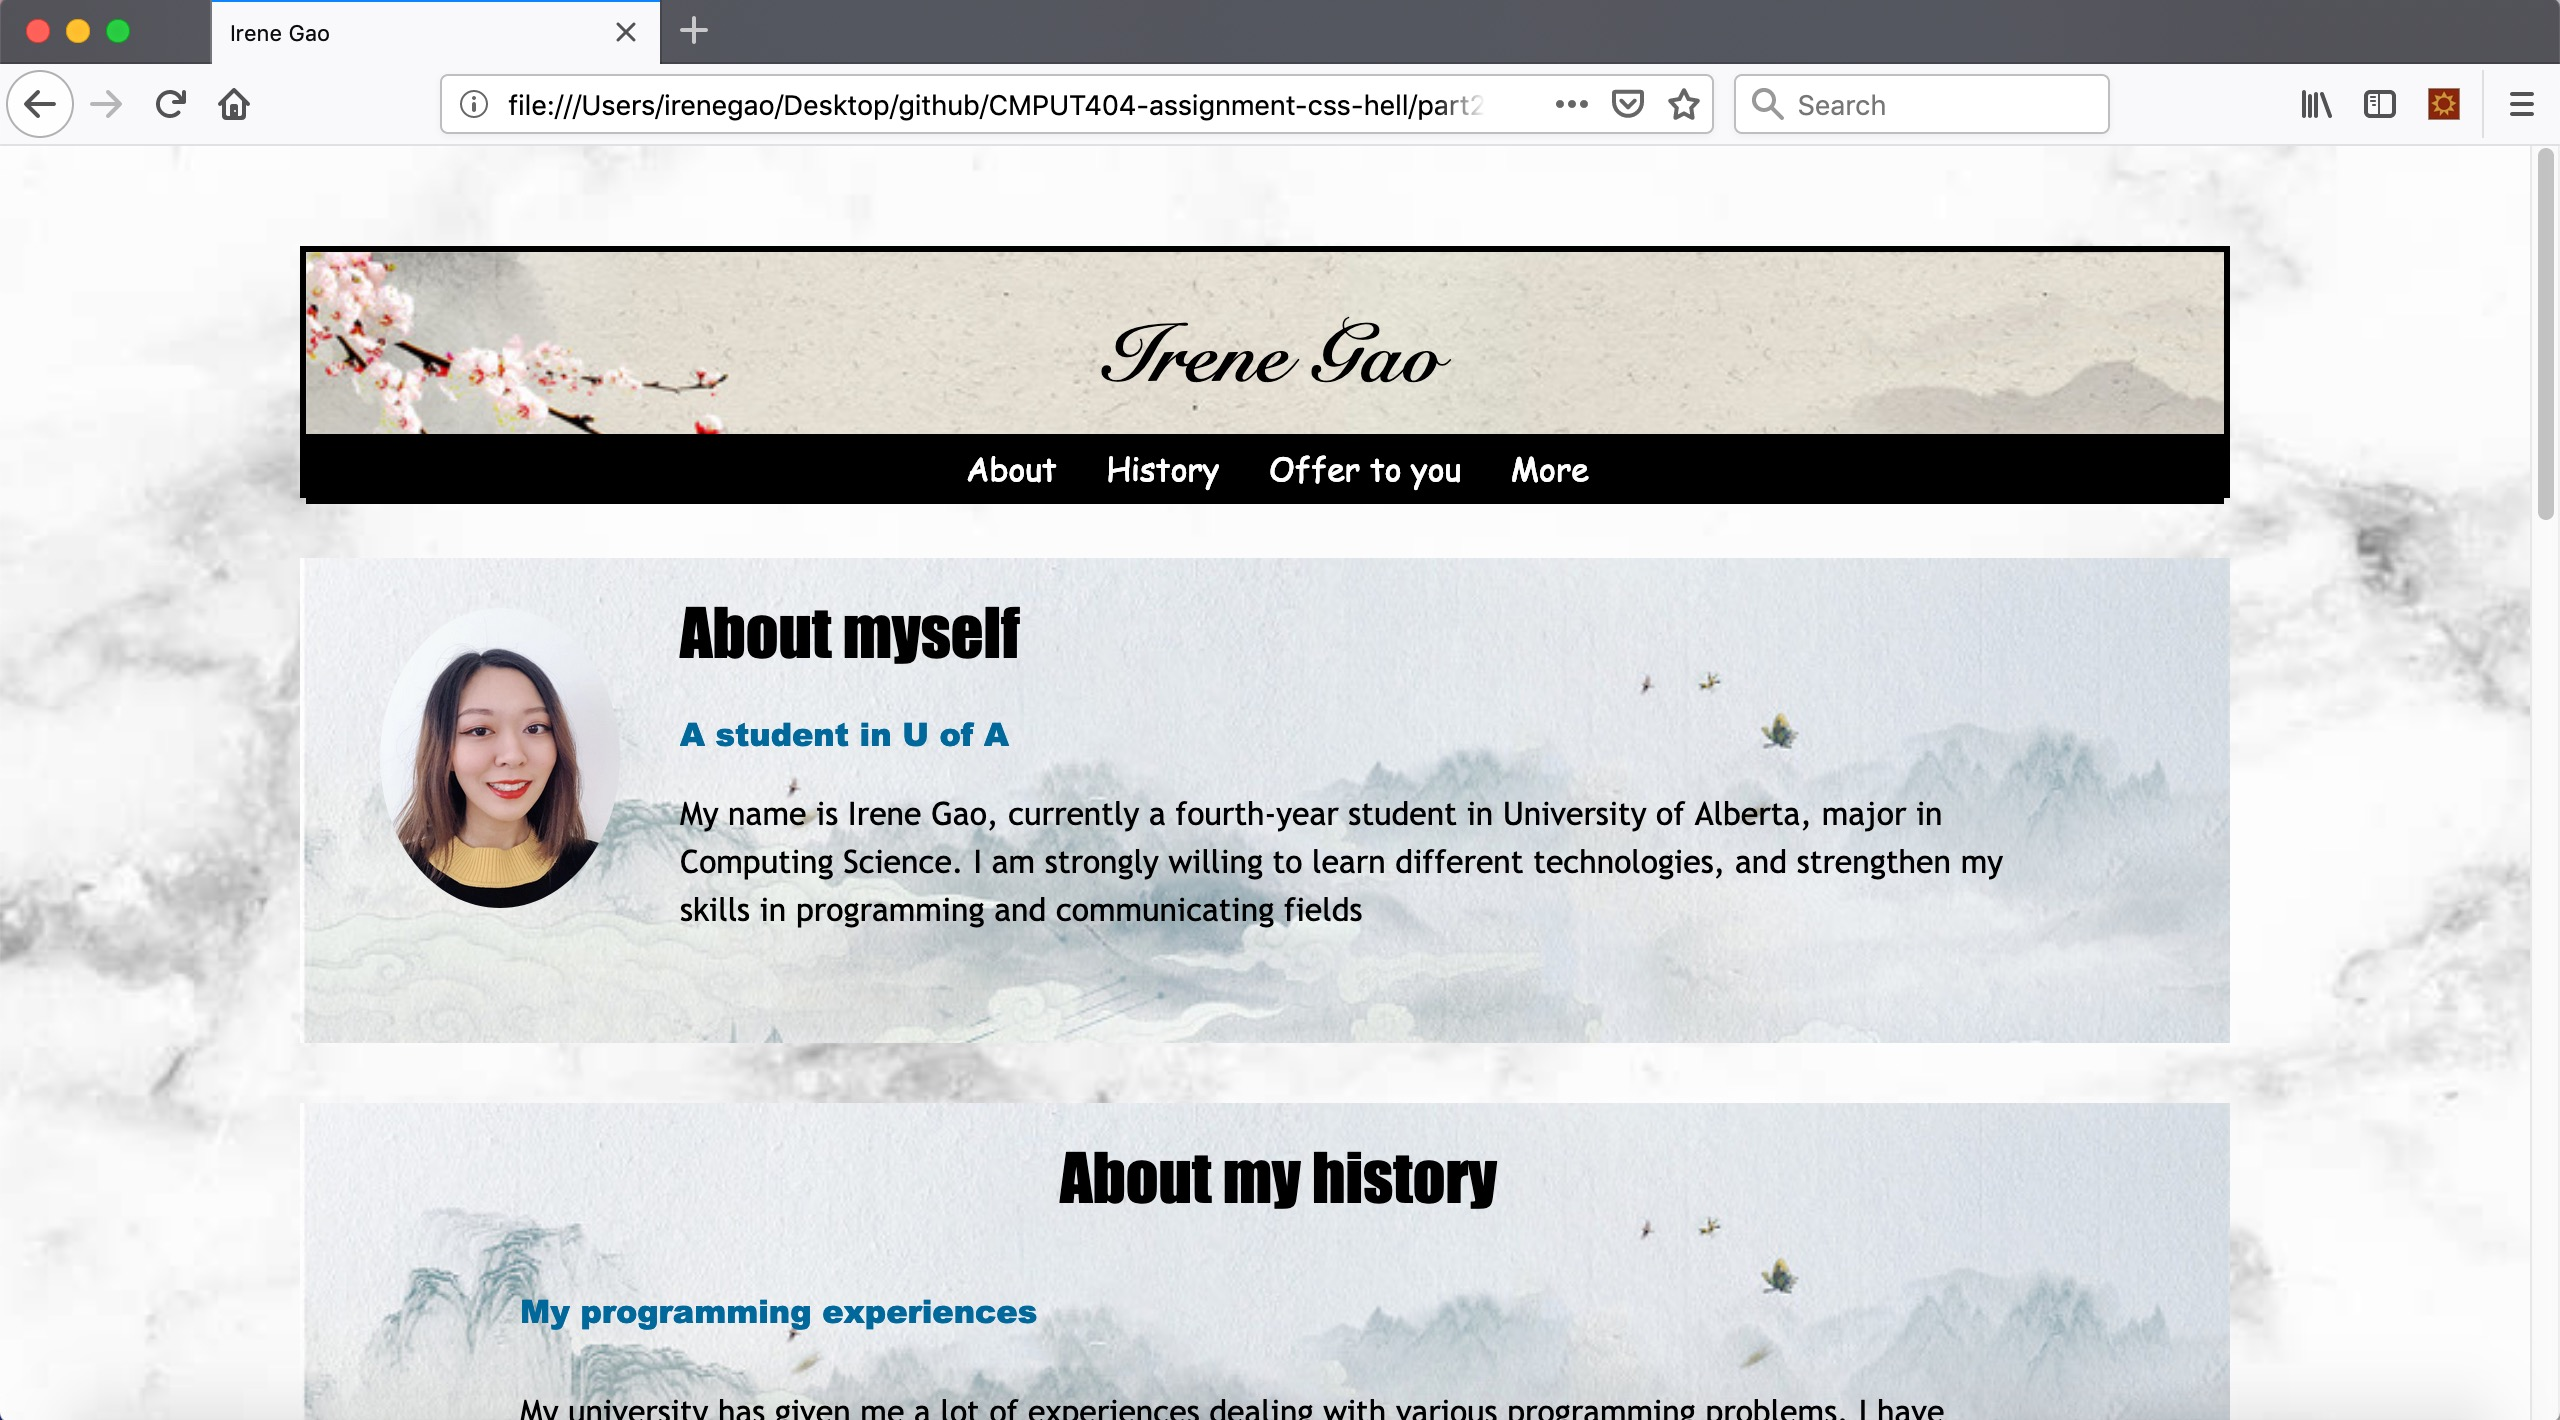
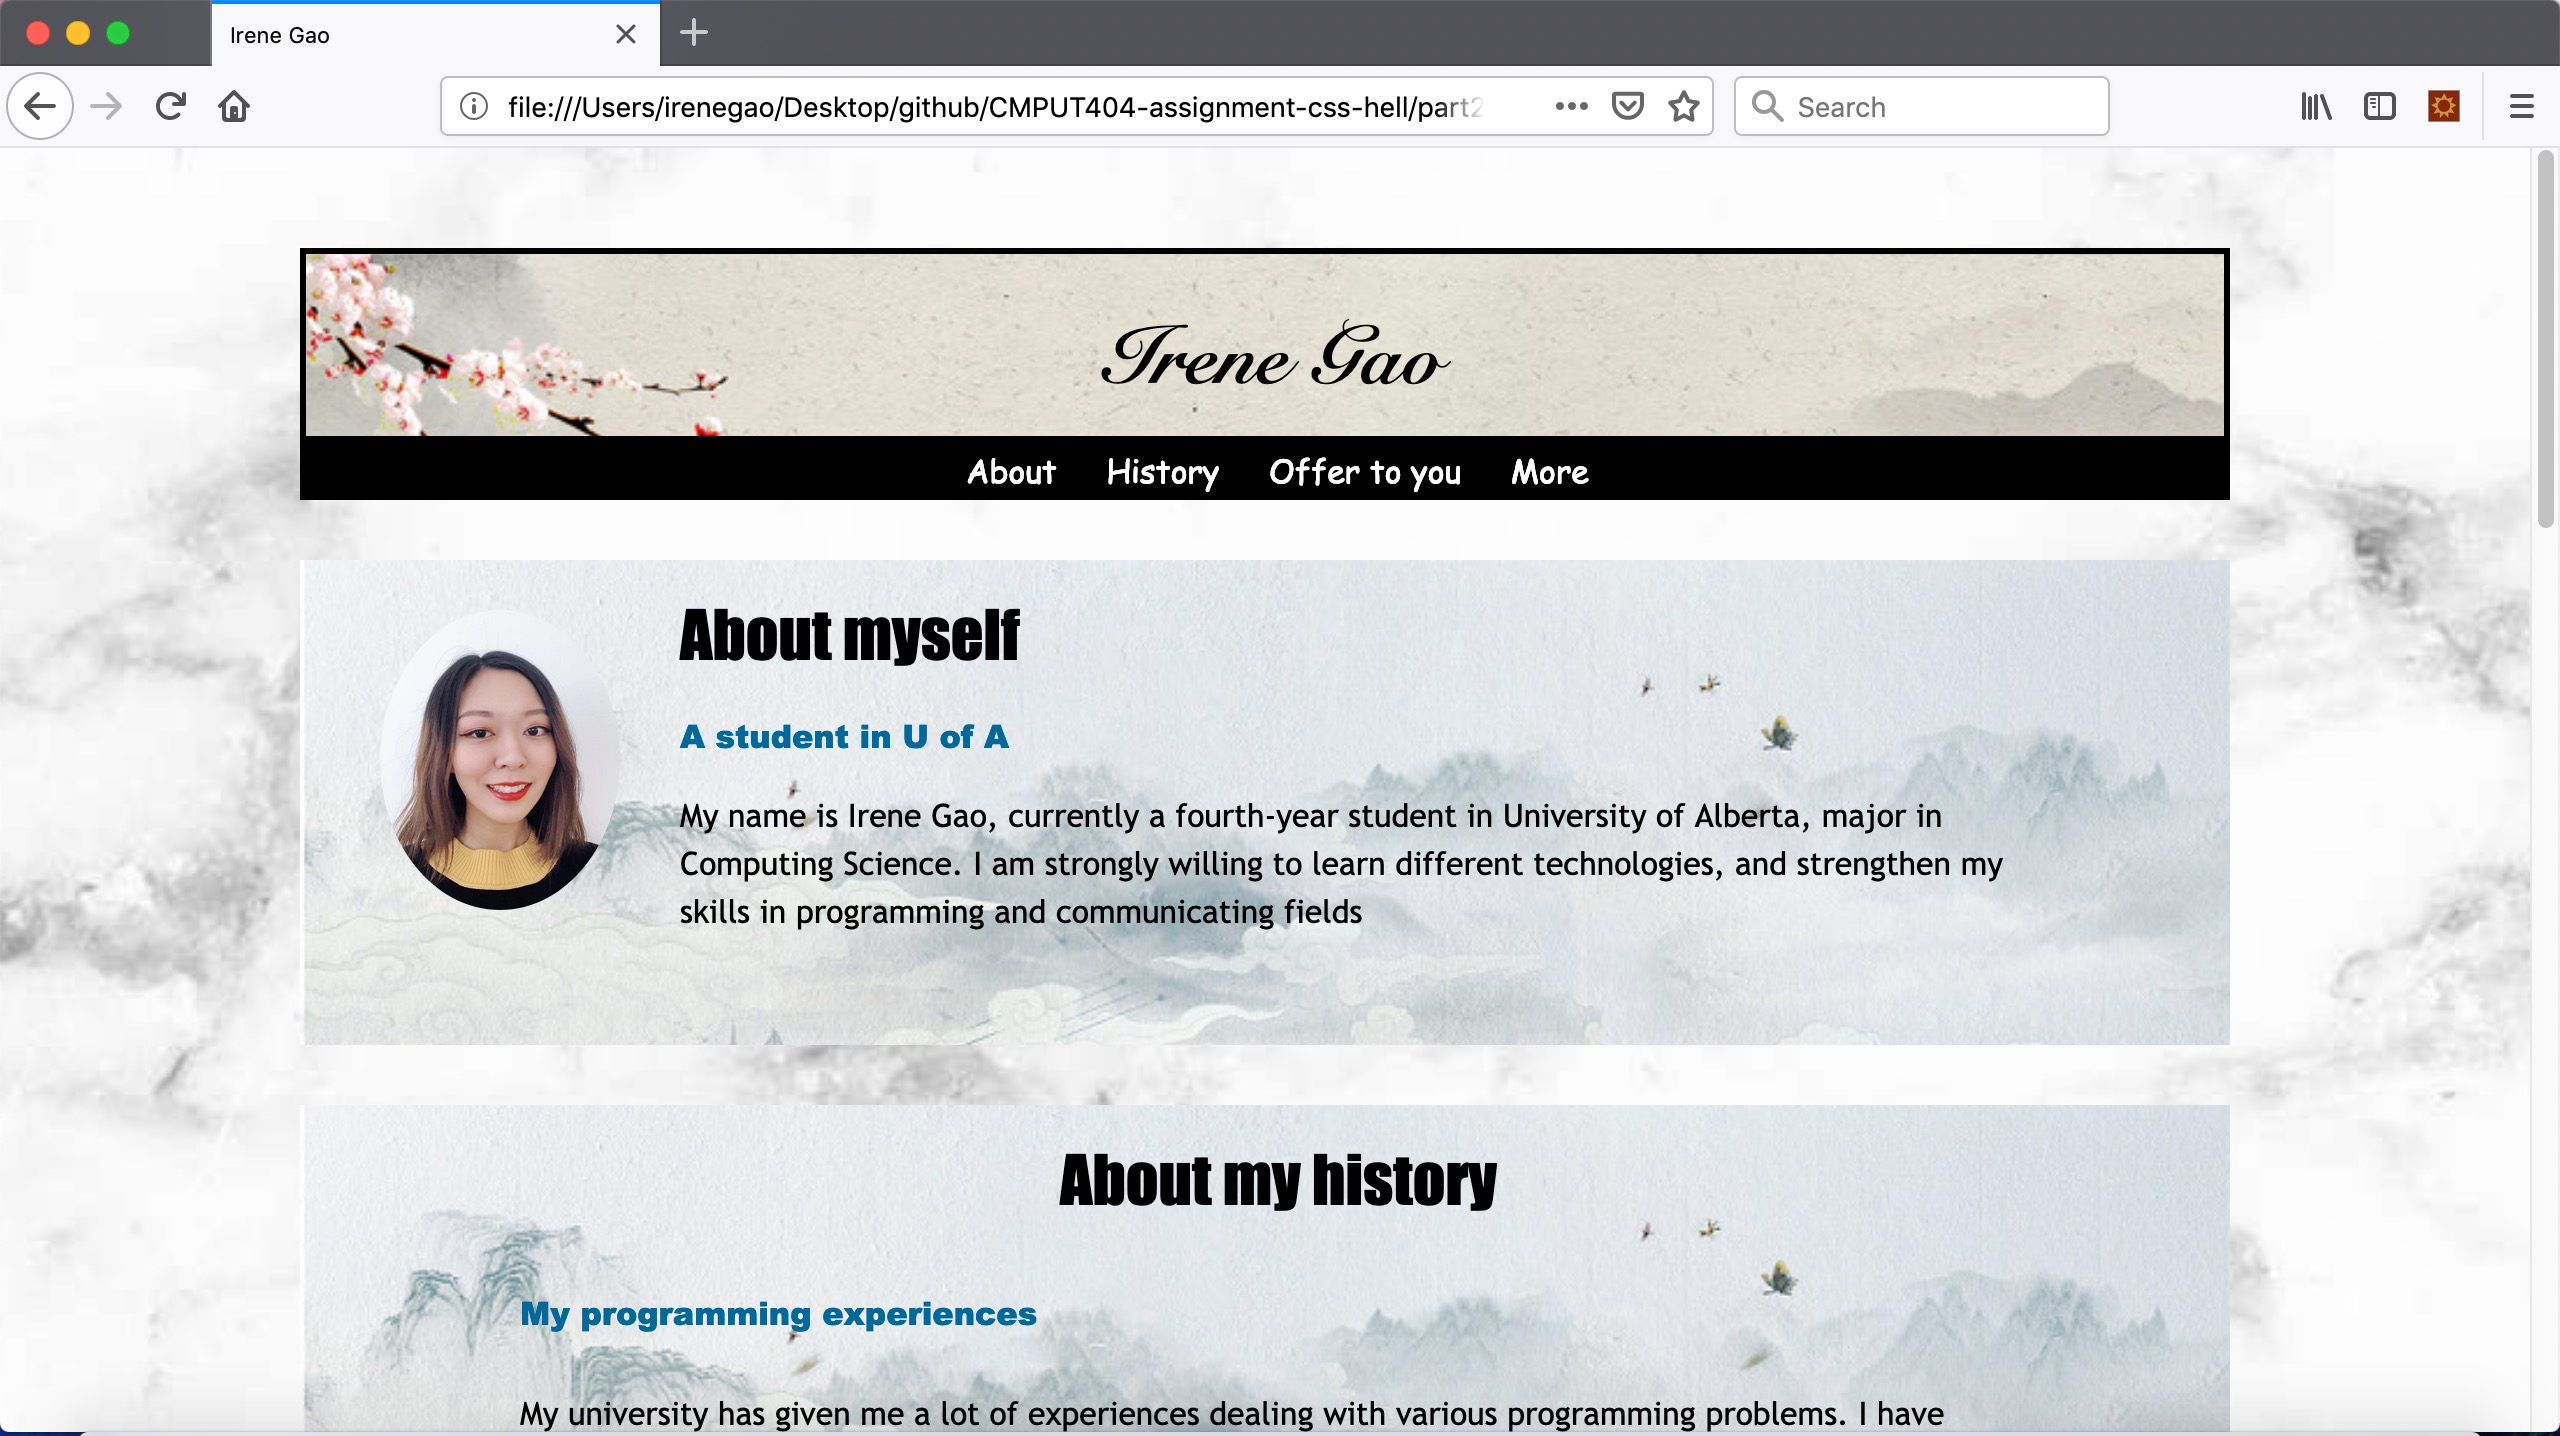
finish

diff --git a/part2/good.css b/part2/good.css
@@ -44,7 +44,7 @@ nav, footer {
     font-family: "Comic Sans MS", cursive, sans-serif;
     color: snow;
     background-color: black;
-    margin-bottom:5px;
+    margin-bottom:0px;
     height: 30px;}
 nav ul {
     margin: 0px;
